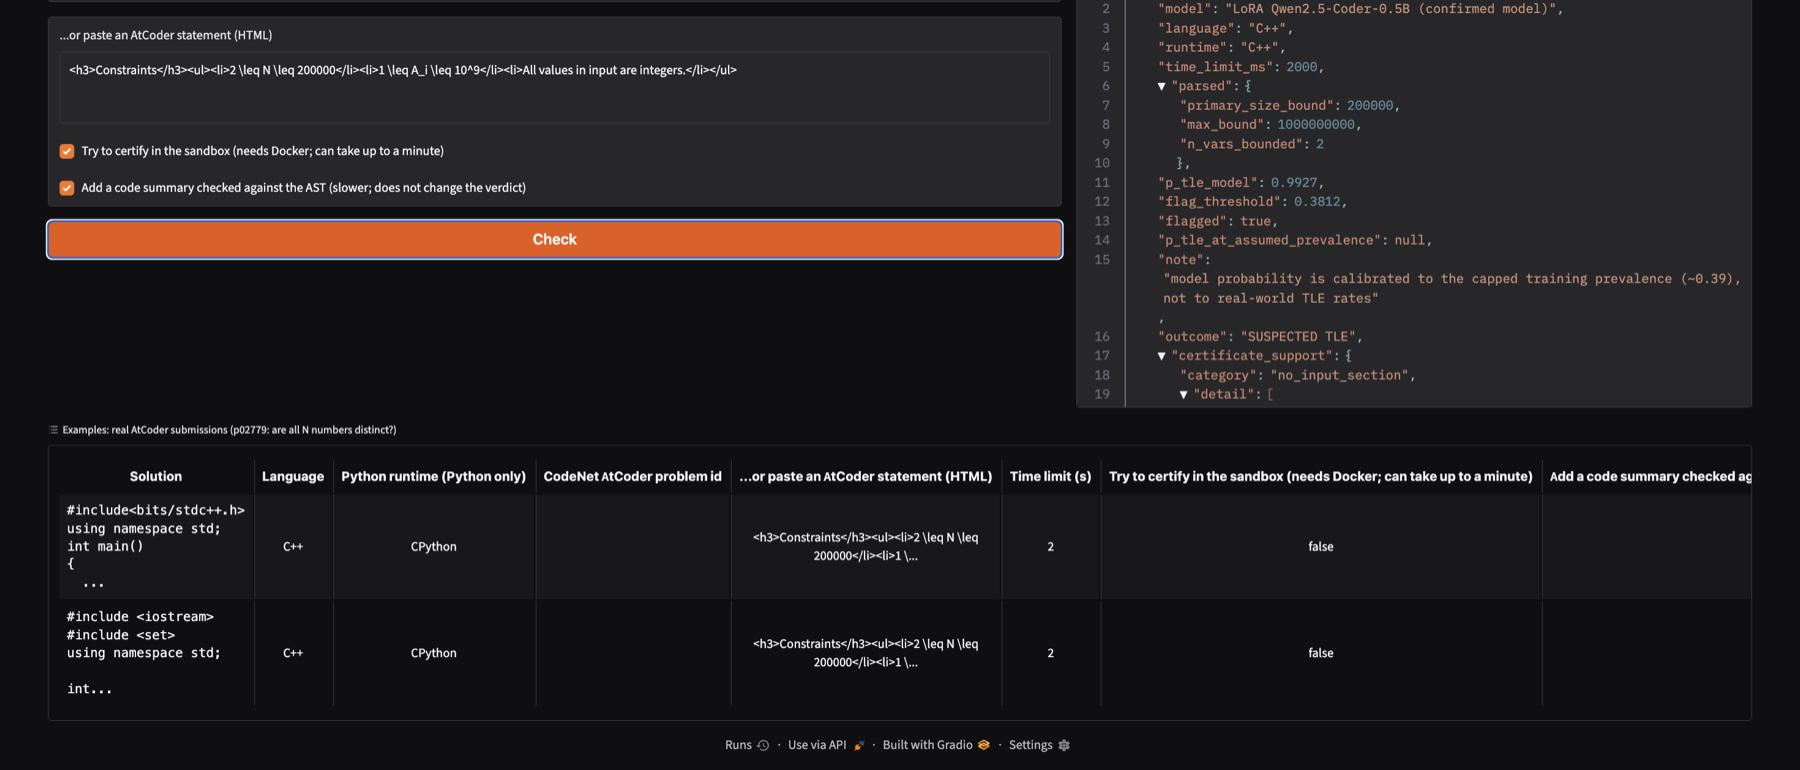
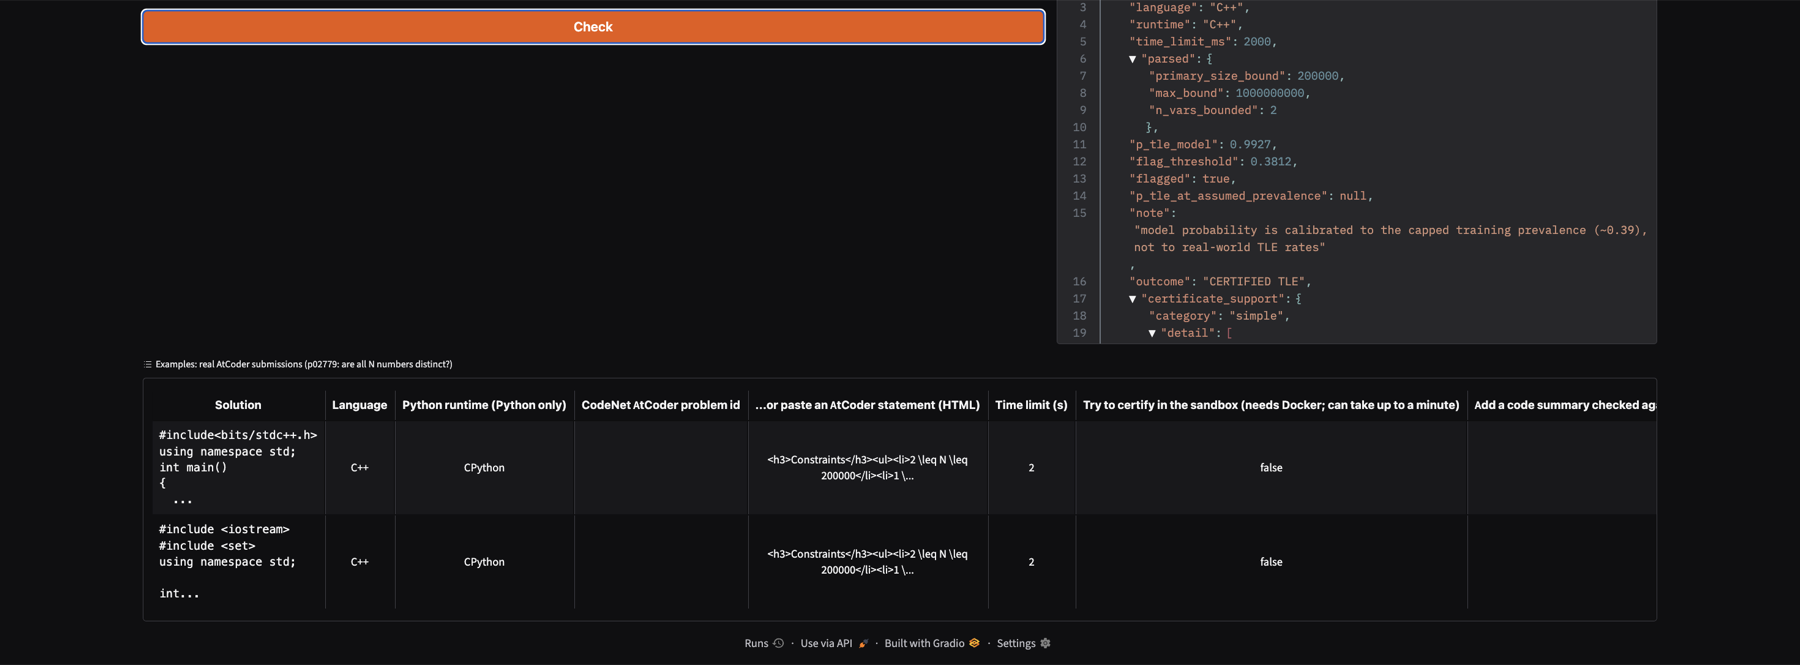
Update demo screenshots: a certified TLE with sandbox runs and the code summary

diff --git a/README.md b/README.md
@@ -18,9 +18,9 @@ input 'asc.txt' used 3.95s CPU (limit 2s) in the sandbox; measured on THIS machi
 | **SUSPECTED TLE** | the model flags it, but no generated input failed; not reported as safe |
 | **LIKELY AC** | the model does not flag it; an estimate, not a proof |
 
-![TLEye web demo: the verdict, the probability and the code summary checked against the AST](docs/demo.png)
+![TLEye web demo: a CERTIFIED TLE with the sandbox runs and the code summary checked against the AST](docs/demo.png)
 
-<details><summary>Inputs, options and built-in examples</summary>
+<details><summary>Options and built-in examples</summary>
 
 ![TLEye web demo: statement, options and examples](docs/demo-inputs.png)
 
